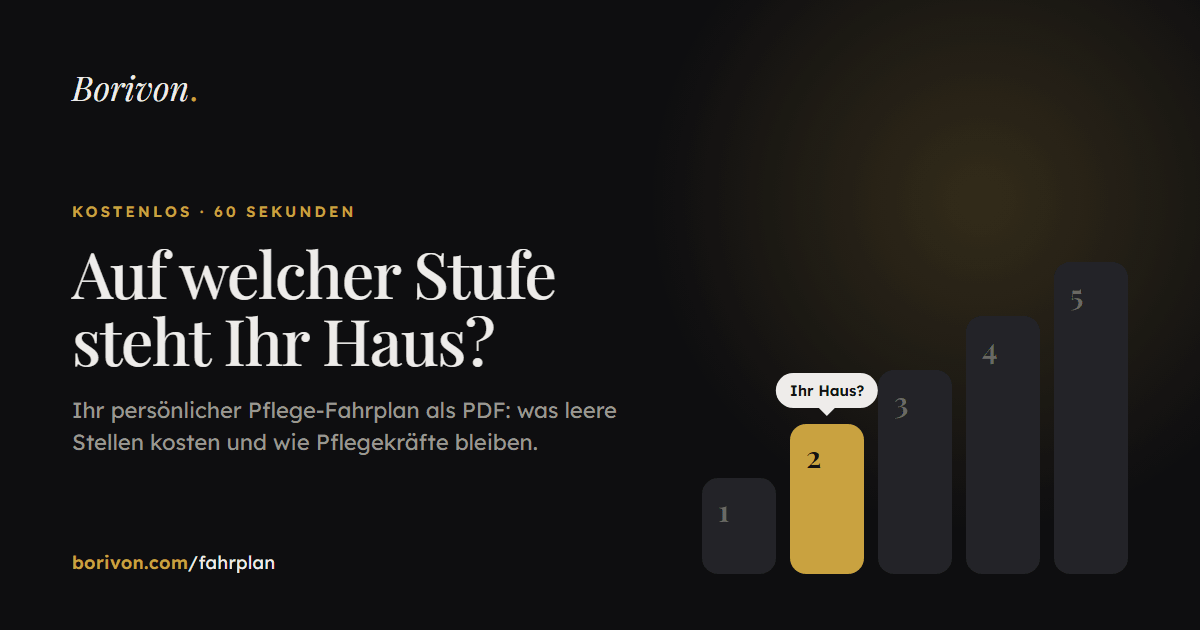
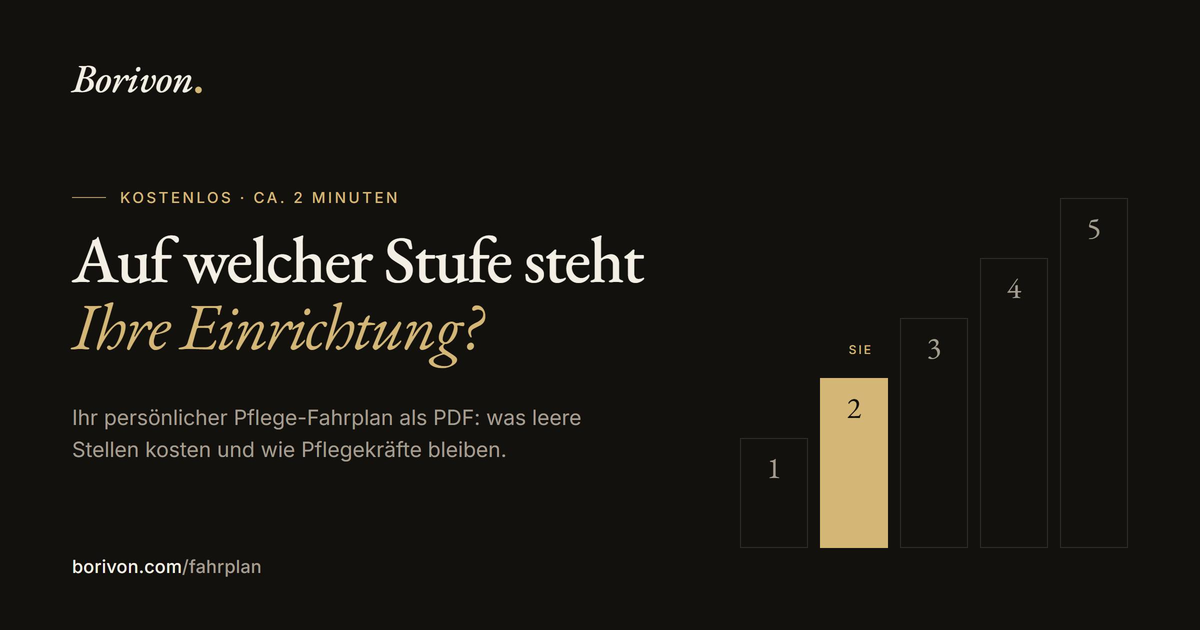
feat(share): link previews in the premium design, with the right words
The share image for home/Fahrplan/Rechner/app pages still asked 'Auf welcher Stufe steht Ihr
Haus?' and promised '60 Sekunden' (the Fahrplan says ca. 2 Minuten), in the old look. New
og-fahrplan.png: night, EB Garamond, 'Auf welcher Stufe steht Ihre Einrichtung?', 'Kostenlos ·
ca. 2 Minuten'. /workshop gets its own (og-workshop.jpg: Casablanca, the headline, 2 × 8 Stunden
mit Youness Taoufiq · 20 Plätze · alle 3 Monate) instead of the old stock nurse photo. New file
names so LinkedIn/WhatsApp fetch them fresh; the old URL shows the new image too.

diff --git a/public/index.html b/public/index.html
@@ -12,13 +12,13 @@
 <meta property="og:title" content="Borivon · Pflegekräfte gewinnen und halten">
 <meta property="og:description" content="Der kostenlose Pflege-Fahrplan für Gesundheitseinrichtungen: Ihre Stufe, was leere Stellen Sie kosten, Ihr Zeitplan und Ihr 90-Tage-Plan, damit Pflegekräfte bleiben. In ca. 2 Minuten.">
 <meta property="og:url" content="https://www.borivon.com/">
-<meta property="og:image" content="https://www.borivon.com/pflege/assets/fahrplan-og.png">
+<meta property="og:image" content="https://www.borivon.com/pflege/assets/og-fahrplan.png">
 <meta property="og:image:width" content="1200">
 <meta property="og:image:height" content="630">
 <meta name="twitter:card" content="summary_large_image">
-<meta name="twitter:image" content="https://www.borivon.com/pflege/assets/fahrplan-og.png">
+<meta name="twitter:image" content="https://www.borivon.com/pflege/assets/og-fahrplan.png">
 <meta name="theme-color" content="#0e0e10">
-<script type="application/ld+json">{"@context":"https://schema.org","@type":"Organization","name":"Borivon","legalName":"Borivon LLC","url":"https://www.borivon.com/","logo":"https://borivon.com/logo.png","image":"https://www.borivon.com/pflege/assets/fahrplan-og.png","description":"Das Unternehmen Borivon hilft Gesundheitseinrichtungen, Pflegekräfte aus dem Ausland zu gewinnen und zu halten, weil gute Pflege kein Luxus sein darf.","email":"contact@borivon.com","areaServed":["DE"],"availableLanguage":["German","French","English","Arabic"]}</script>
+<script type="application/ld+json">{"@context":"https://schema.org","@type":"Organization","name":"Borivon","legalName":"Borivon LLC","url":"https://www.borivon.com/","logo":"https://borivon.com/logo.png","image":"https://www.borivon.com/pflege/assets/og-fahrplan.png","description":"Das Unternehmen Borivon hilft Gesundheitseinrichtungen, Pflegekräfte aus dem Ausland zu gewinnen und zu halten, weil gute Pflege kein Luxus sein darf.","email":"contact@borivon.com","areaServed":["DE"],"availableLanguage":["German","French","English","Arabic"]}</script>
 <style>
 @font-face { font-family: "EB Garamond"; font-style: normal; font-weight: 400 800; font-display: swap; src: url(/pflege/assets/fonts/ebgaramond-latin.woff2) format("woff2"); unicode-range: U+0000-00FF, U+0131, U+0152-0153, U+02BB-02BC, U+02C6, U+02DA, U+02DC, U+0304, U+0308, U+0329, U+2000-206F, U+20AC, U+2122, U+2191, U+2193, U+2212, U+2215, U+FEFF, U+FFFD; }
 @font-face { font-family: "EB Garamond"; font-style: normal; font-weight: 400 800; font-display: swap; src: url(/pflege/assets/fonts/ebgaramond-latin-ext.woff2) format("woff2"); unicode-range: U+0100-02BA, U+02BD-02C5, U+02C7-02CC, U+02CE-02D7, U+02DD-02FF, U+0304, U+0308, U+0329, U+1D00-1DBF, U+1E00-1E9F, U+1EF2-1EFF, U+2020, U+20A0-20AB, U+20AD-20C4, U+2113, U+2C60-2C7F, U+A720-A7FF; }

diff --git a/public/fahrplan.html b/public/fahrplan.html
@@ -11,11 +11,11 @@
 <meta property="og:title" content="Ihr Pflege-Fahrplan · Borivon">
 <meta property="og:description" content="Kostenlos in ca. 2 Minuten: was leere Stellen Sie kosten, Ihr Zeitplan bis zur ersten Fachkraft und Ihr Plan, damit sie bleibt.">
 <meta property="og:url" content="https://www.borivon.com/fahrplan">
-<meta property="og:image" content="https://www.borivon.com/pflege/assets/fahrplan-og.png">
+<meta property="og:image" content="https://www.borivon.com/pflege/assets/og-fahrplan.png">
 <meta property="og:image:width" content="1200">
 <meta property="og:image:height" content="630">
 <meta name="twitter:card" content="summary_large_image">
-<meta name="twitter:image" content="https://www.borivon.com/pflege/assets/fahrplan-og.png">
+<meta name="twitter:image" content="https://www.borivon.com/pflege/assets/og-fahrplan.png">
 <meta name="theme-color" content="#0e0e10">
 <style>
 @font-face { font-family: "EB Garamond"; font-style: normal; font-weight: 400 800; font-display: swap; src: url(/pflege/assets/fonts/ebgaramond-latin.woff2) format("woff2"); unicode-range: U+0000-00FF, U+0131, U+0152-0153, U+02BB-02BC, U+02C6, U+02DA, U+02DC, U+0304, U+0308, U+0329, U+2000-206F, U+20AC, U+2122, U+2191, U+2193, U+2212, U+2215, U+FEFF, U+FFFD; }

diff --git a/public/workshop.html b/public/workshop.html
@@ -11,7 +11,11 @@
 <meta property="og:title" content="Workshop in Casablanca · Borivon">
 <meta property="og:description" content="2 Tage in unseren Konferenzräumen in Casablanca, Marokko, mit dem Gründer von Borivon: Ihren Fahrplan umsetzen und Ihre Pflegekräfte persönlich kennenlernen. Alle 3 Monate, 20 Plätze.">
 <meta property="og:url" content="https://www.borivon.com/workshop">
-<meta property="og:image" content="https://www.borivon.com/pflege/assets/nurse.jpg">
+<meta property="og:image" content="https://www.borivon.com/pflege/assets/og-workshop.jpg">
+<meta property="og:image:width" content="1200">
+<meta property="og:image:height" content="630">
+<meta name="twitter:card" content="summary_large_image">
+<meta name="twitter:image" content="https://www.borivon.com/pflege/assets/og-workshop.jpg">
 <meta name="theme-color" content="#0e0e10">
 <style>
 @font-face { font-family: "EB Garamond"; font-style: normal; font-weight: 400 800; font-display: swap; src: url(/pflege/assets/fonts/ebgaramond-latin.woff2) format("woff2"); unicode-range: U+0000-00FF, U+0131, U+0152-0153, U+02BB-02BC, U+02C6, U+02DA, U+02DC, U+0304, U+0308, U+0329, U+2000-206F, U+20AC, U+2122, U+2191, U+2193, U+2212, U+2215, U+FEFF, U+FFFD; }

diff --git a/public/fahrplan/rechner.html b/public/fahrplan/rechner.html
@@ -11,7 +11,11 @@
 <meta property="og:title" content="Ihr Rechner zum Pflege-Fahrplan · Borivon">
 <meta property="og:description" content="Was offene Stellen Sie kosten, und was Pflegekräfte bringen. Mit Ihren eigenen Zahlen, über 1, 2 und 3 Jahre.">
 <meta property="og:url" content="https://www.borivon.com/fahrplan/rechner">
-<meta property="og:image" content="https://www.borivon.com/pflege/assets/nurse.jpg">
+<meta property="og:image" content="https://www.borivon.com/pflege/assets/og-fahrplan.png">
+<meta property="og:image:width" content="1200">
+<meta property="og:image:height" content="630">
+<meta name="twitter:card" content="summary_large_image">
+<meta name="twitter:image" content="https://www.borivon.com/pflege/assets/og-fahrplan.png">
 <meta name="theme-color" content="#0e0e10">
 <style>
 @font-face { font-family: "EB Garamond"; font-style: normal; font-weight: 400 800; font-display: swap; src: url(/pflege/assets/fonts/ebgaramond-latin.woff2) format("woff2"); unicode-range: U+0000-00FF, U+0131, U+0152-0153, U+02BB-02BC, U+02C6, U+02DA, U+02DC, U+0304, U+0308, U+0329, U+2000-206F, U+20AC, U+2122, U+2191, U+2193, U+2212, U+2215, U+FEFF, U+FFFD; }

diff --git a/app/layout.tsx b/app/layout.tsx
@@ -81,13 +81,13 @@ export const metadata: Metadata = {
     siteName: "Borivon",
     title: "Borivon · Pflegekräfte gewinnen und halten",
     description: "Das Unternehmen Borivon hilft Gesundheitseinrichtungen, Pflegekräfte aus dem Ausland zu gewinnen und zu halten, weil gute Pflege kein Luxus sein darf.",
-    images: [{ url: "/pflege/assets/fahrplan-og.png", width: 1200, height: 630, alt: "Borivon · Der kostenlose Pflege-Fahrplan" }],
+    images: [{ url: "/pflege/assets/og-fahrplan.png", width: 1200, height: 630, alt: "Borivon · Der kostenlose Pflege-Fahrplan" }],
   },
   twitter: {
     card: "summary_large_image",
     title: "Borivon · Pflegekräfte gewinnen und halten",
     description: "Das Unternehmen Borivon hilft Gesundheitseinrichtungen, Pflegekräfte aus dem Ausland zu gewinnen und zu halten, weil gute Pflege kein Luxus sein darf.",
-    images: ["/pflege/assets/fahrplan-og.png"],
+    images: ["/pflege/assets/og-fahrplan.png"],
   },
   // NOTE: no `alternates.canonical` here on purpose.
   //
